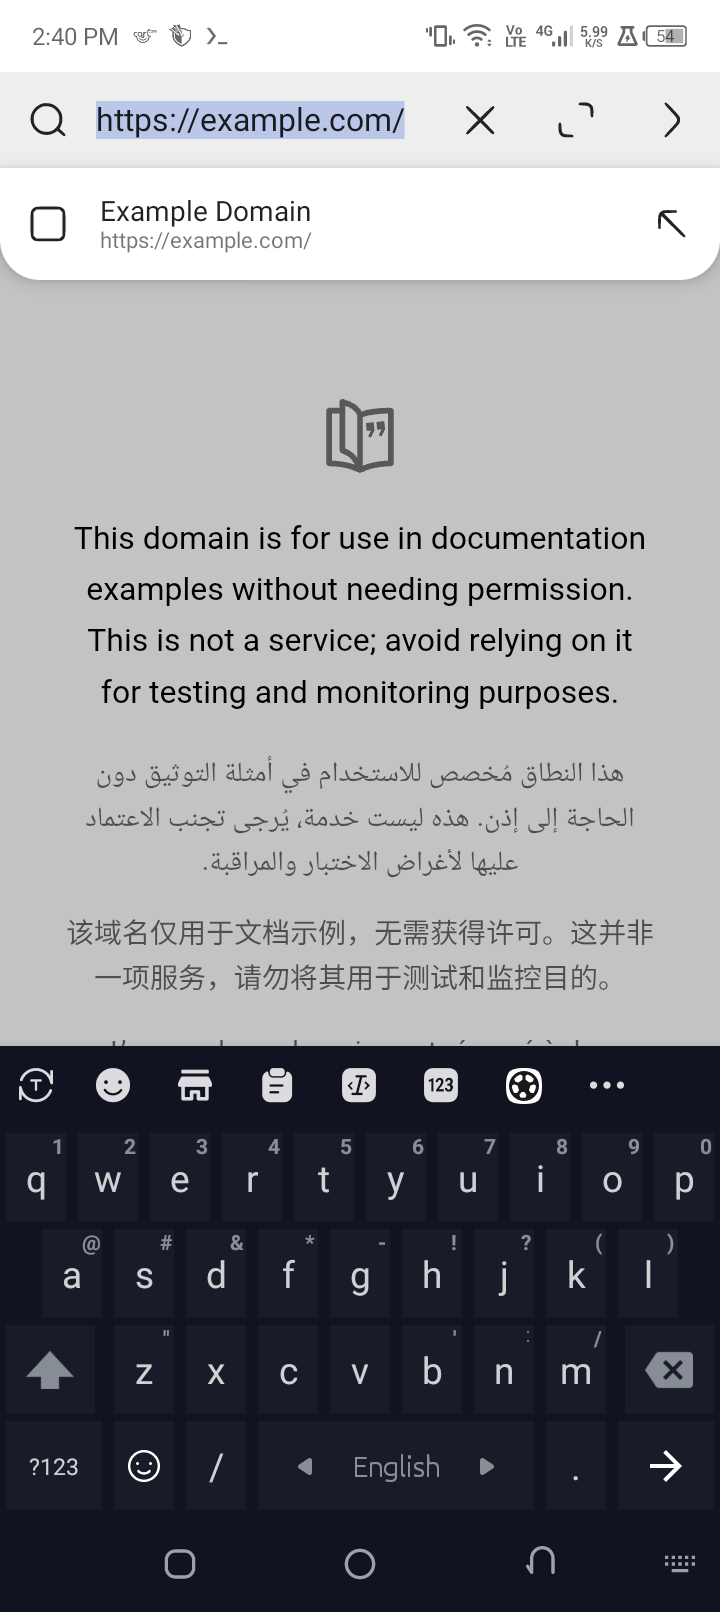
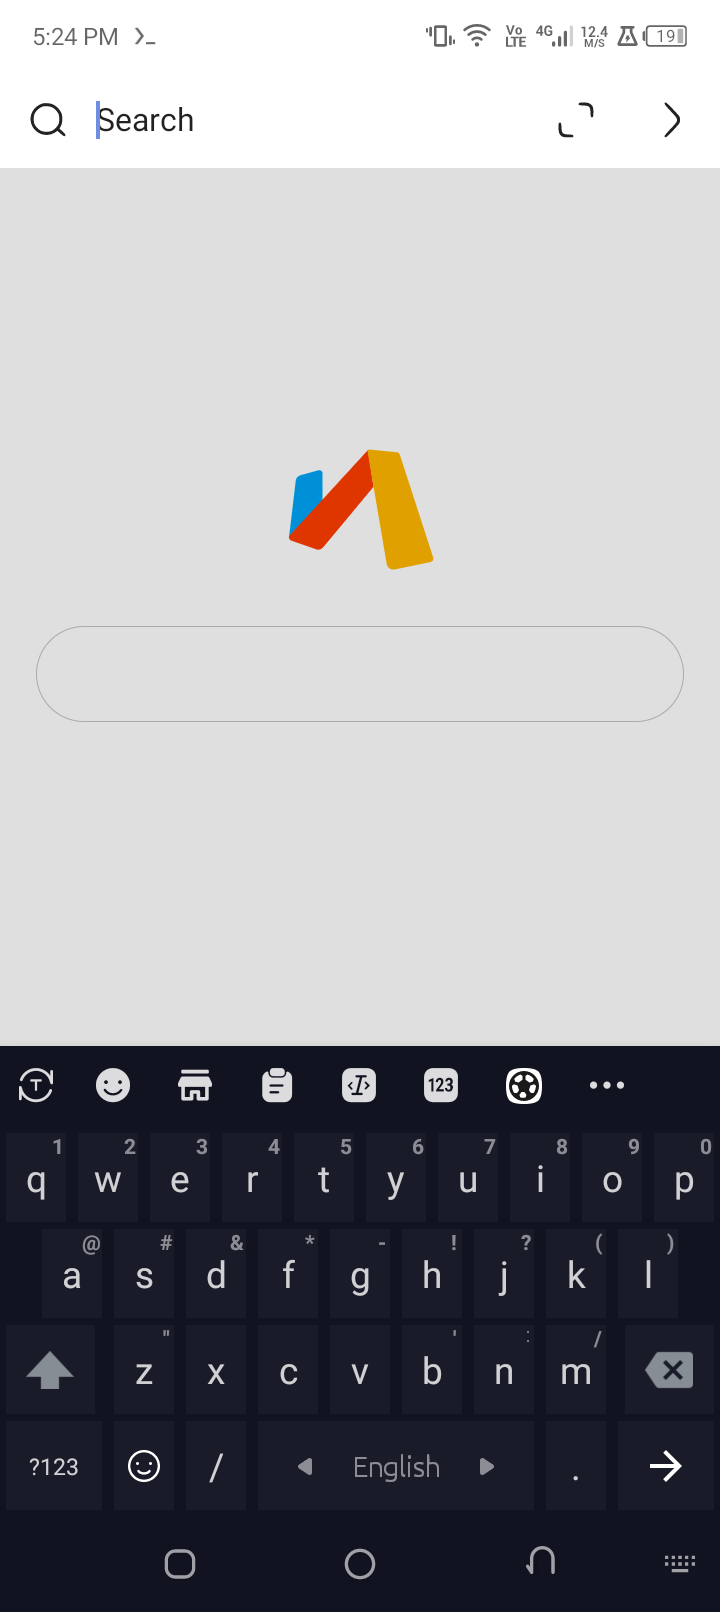
docs: update chrome, settings and address screenshots

diff --git a/README.md b/README.md
@@ -19,14 +19,20 @@ with its own package (`com.jump.browser`), engine wrapper, data layer, and UI.
 - **Homepage.** Jump's own three-ribbon mark, search field, and bookmark
   shortcuts. The homepage is native Compose, not generated HTML.
 - **Blueprint address bar.** Inline editing with automatic selection, URL/search
-  detection, local and remote suggestions, clear/go actions, and an expand
-  affordance.
+  detection, local and remote suggestions, clear/go actions, and a true
+  full-screen editing mode that keeps the keyboard attached.
 - **Paged menu.** The two-row, five-column action sheet with animated page
   transitions, page dots, and the familiar exit affordance.
 - **Library.** Bookmarks with icons, editable entries and a search field;
   grouped, searchable history; and a download manager built on Android's
   DownloadManager.
-- **Reader mode.** Article extraction with a typography-focused reader surface.
+- **Reader mode.** Article extraction with a typography-focused reader surface
+  inside the live page area, so the title bar and bottom toolbar stay present.
+- **Animated settings navigation.** Settings pages enter from the right while
+  the outgoing page moves left, and can be dragged back from left to right with
+  the page tracking the finger. Dialogs use the same horizontal dismiss gesture.
+- **Reference toast surface.** Short messages use Jump's own bottom pill instead
+  of the platform toast, with the reference geometry, duration and action slot.
 - **Find in page.** Live match count with previous/next navigation.
 - **QR scanner.** CameraX preview with ZXing decoding, plus a clipboard
   fallback.
@@ -35,16 +41,16 @@ with its own package (`com.jump.browser`), engine wrapper, data layer, and UI.
   controls, and one-tap browsing-data clearing.
 - **Desktop mode, share, copy, save page, print, view source, translate, and
   home-screen shortcuts.**
-- **Reference feedback language.** Chrome, sheets and list rows use the
-  reference pressed-background treatment without ripple; dialog buttons retain
-  the reference ripple.
+- **Reference feedback language.** Interactive chrome controls, menu cells,
+  list rows and toolbar slots use the reference `#30808080` ripple. Scrims and
+  backdrops never ripple, and dialog buttons keep their ripple.
 
 ## Screens
 
 | | |
 |---|---|
 | ![Homepage](docs/screenshots/home.png) | ![Address bar](docs/screenshots/address-bar.png) |
-| **Homepage** with the reference geometry and logo. | **Address bar** with live suggestions and page scrim. |
+| **Homepage** with the reference geometry and logo. | **Address bar** with the inline editor, search placeholder and page scrim. |
 | ![Menu](docs/screenshots/menu.png) | ![Tabs](docs/screenshots/tabs.png) |
 | **Action sheet** with paged tools. | **Compact tab popup** anchored to the toolbar. |
 | ![Settings](docs/screenshots/settings.png) | ![Settings detail](docs/screenshots/settings-general.png) |
@@ -55,6 +61,7 @@ with its own package (`com.jump.browser`), engine wrapper, data layer, and UI.
 | **Download manager.** | **Long-press link and image actions.** |
 
 More captures: [bookmarks and history](docs/screenshots/bookmarks.png),
+[full-screen address](docs/screenshots/address-fullscreen.png),
 [night mode](docs/screenshots/night-mode.png).
 
 ## Architecture
@@ -87,8 +94,10 @@ Debug builds are written to `app/build/outputs/apk/debug/app-debug.apk`.
 Minified release builds are written to `app/build/outputs/apk/release/app-release.apk`.
 
 A signed, installable release is included at `dist/Jump-1.0.0.apk` with checksums
-in `dist/SHA256SUMS.txt`. It is signed with the local debug key so it can be
-sideloaded; use a private release key before publishing to a store.
+in `dist/SHA256SUMS.txt`. Rebuild it with `tad build release` after source
+changes. It is signed with the local debug key so it can be sideloaded; use a
+private release key before publishing to a store. Development happens on the
+`master` branch.
 
 ## Project layout
 
@@ -110,9 +119,9 @@ The signed release is 2.2 MB.
 
 Known gaps: incognito tabs suppress history without isolating cookies because
 Android WebView profiles are only available on newer WebView providers.
-Bookmarks are flat rather than folder-based, and saved-page management is
-limited to the save action and a confirmation toast. These are deliberate
-extension points, not hidden behavior.
+Bookmarks are flat rather than folder-based, and saved-page management is still
+limited. Advanced data panels such as the resource sniffer, network log and
+read-aloud engine remain extension points rather than hidden implementations.
 
 ## License
 

diff --git a/ARCHITECTURE.md b/ARCHITECTURE.md
@@ -89,13 +89,21 @@ and 24dp for menu cells. This preserves the source stroke weight and exact
 silhouette instead of approximating icons with Material assets. Generic symbols
 that the reference does not expose as glyphs remain in `JumpIcons.kt`.
 
-### Feedback
+### Feedback and transient UI
 
-Ripple is deliberately absent from the browser chrome, scrims, sheets, tabs,
-list rows and address backdrop, matching the reference pressed-background
-behavior. Pressed chrome controls use a rounded `#30808080` overlay. Material
-dialog buttons are the exception and keep their ripple because the reference
-dialogs use ripple buttons.
+Interactive chrome controls, menu cells, toolbar slots, tab rows, suggestion
+rows and settings rows use the reference `#30808080` ripple, clipped by the
+control's own shape. Scrims and backdrops—including the address backdrop—use an
+explicit null indication so tapping outside closes the overlay without a flash.
+Dialog buttons retain the same ripple.
+
+Dialogs are native Compose dialogs rather than Material `AlertDialog`: a 288dp
+card, 16dp radius, 16sp bold title, 14sp body, underlined 14sp fields, 14sp
+accent actions, a 0.40 black scrim, and horizontal drag-to-dismiss. The
+reference's small round checkbox is reproduced for dialog options. Short
+messages go through `JumpToastHost` instead of `android.widget.Toast`: a
+`#CC1E1E1E` pill with a 30dp radius, 14sp white text, optional accent action,
+1.6s duration (3.5s with an action), and a 180ms 20dp rise/fall.
 
 ### UI composition
 
@@ -103,13 +111,14 @@ dialogs use ripple buttons.
 
 ```
 status inset
-title bar / address bar
+title bar / address bar / full-screen address editor
 2dp progress overlay
 WebView host + homepage/error page + suggestion dropdown + find bar
 bottom bar
 menu sheet (overlay)
 tab popup (overlay)
 library / reader / source screens (animated overlays)
+reference toast host
 dialogs
 ```
 
@@ -117,7 +126,11 @@ The WebView host is always present under the chrome, so opening the library or
 menu does not destroy or reload the page. Overlays are full-size surfaces with
 their own status-inset handling. Reader mode is rendered inside the page area,
 so the title bar, page security state and bottom toolbar remain visible, as in
-the reference.
+the reference. The address editor has two layouts: the inline 48dp row, and a
+full-screen white editor that temporarily replaces the chrome while preserving
+the keyboard. Settings keeps a single page stack: entering a category slides
+the new page in from the right while the previous page stops at a 30% offset;
+the gesture is interactive and settles at the reference 46% threshold.
 
 ## Layout rhythm
 
@@ -131,6 +144,9 @@ the reference.
 | Menu sheet | 5 columns × 2 rows, 304dp total |
 | Tab popup row | 48dp |
 | Library top bar | 48dp |
+| Settings top bar | 54dp |
+| Settings title | 20sp bold |
+| Settings category row | 59dp |
 | Horizontal padding | 16–20dp |
 
 The bottom bar adds the navigation-bar inset outside its 48dp content height.
@@ -151,13 +167,20 @@ Motion is part of the product, not decoration.
 | Menu sheet | 160ms slide-up (60dp) + fade | 160ms slide-down + fade |
 | Tab popup scrim | 160ms fade, 25% dim | 160ms fade |
 | Tab popup panel | 160ms slide-up (60dp) + fade | 160ms slide-down + fade |
-| Library screens | 220ms horizontal slide (30%) | 220ms horizontal slide |
+| Library/settings page enter | 220ms: new page from 100% right, old page to −30% left | — |
+| Library/settings page back | 220ms: previous page from −30% left, current page to 100% right | — |
+| Interactive page swipe | Page follows finger; 46% threshold | 300ms settle if released early |
+| Dialog enter | 240ms bounce, 90%→100% scale + 20dp rise + fade | 120ms fade |
+| Toast | 180ms fade + 20dp rise | 180ms fade + 20dp fall |
 | Context menu | 100ms fade | 100ms fade |
 
 Movement uses an accelerating curve for bottom sheets and popups, matching the
-reference window animations. Page indicator and menu paging use the horizontal
-pager's own spring. The homepage search gesture translates content down by
-72dp and fades it to 10% before opening the address overlay.
+reference window animations. Settings and library pages use the reference
+accelerate/decelerate 220ms fragment transition, including an interactive
+left-to-right back gesture with the current page tracking the finger. Page
+indicator and menu paging use the horizontal pager's own spring. The homepage
+search gesture translates content down by 72dp and fades it to 10% before
+opening the address overlay.
 
 ## Extension points
 
